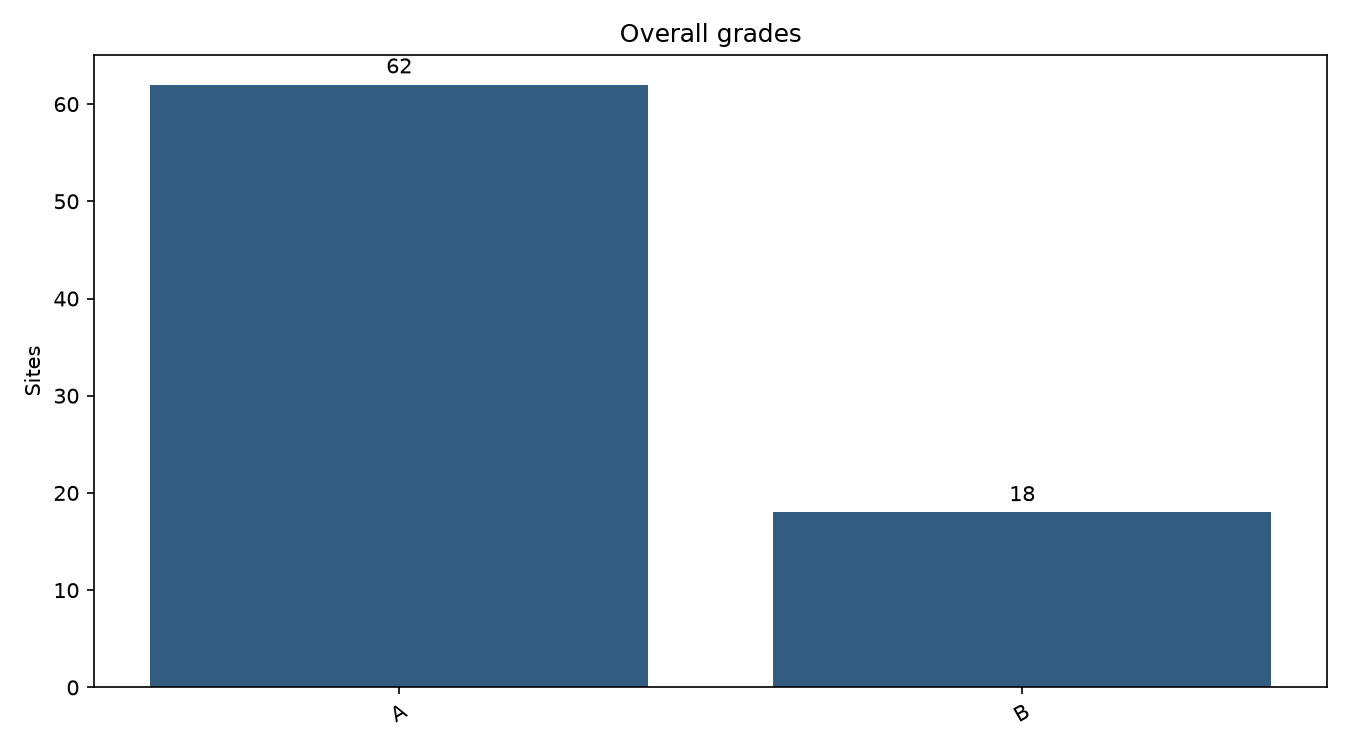
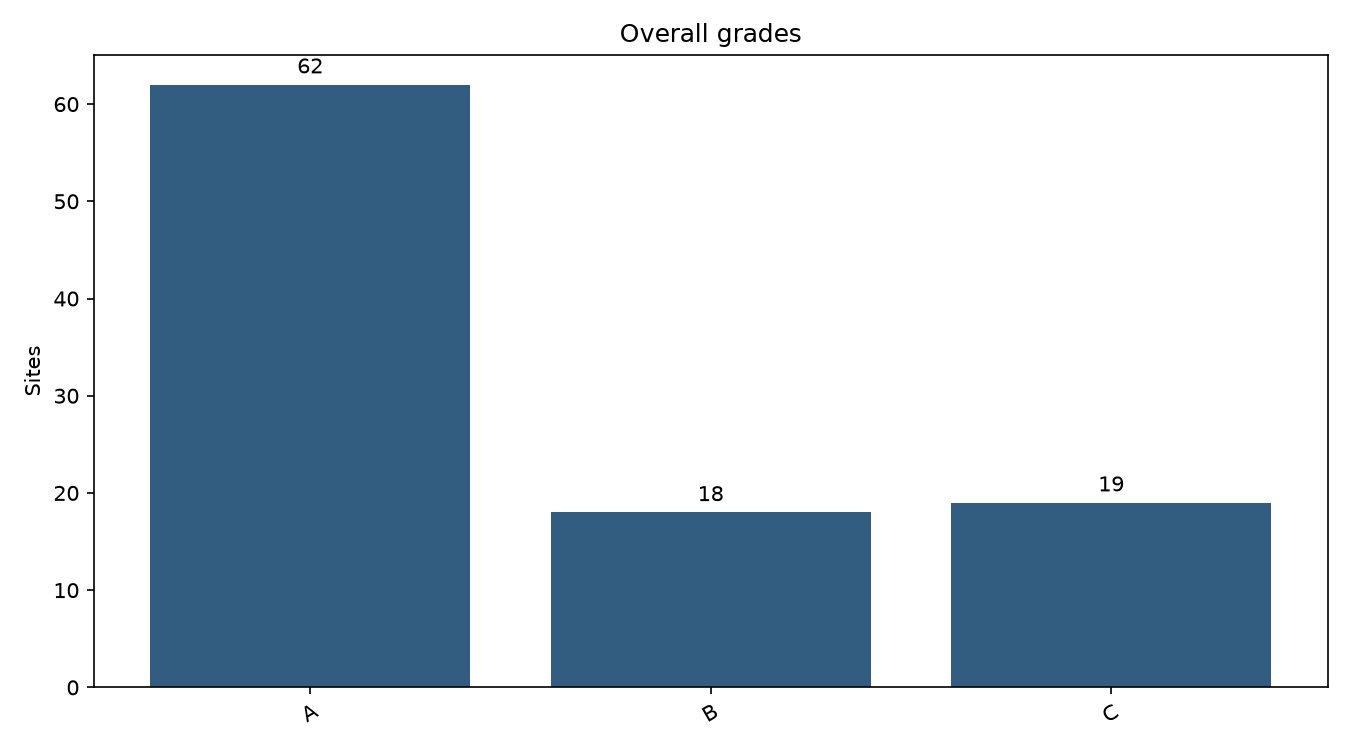
Classify legacy TLS observations in research results

diff --git a/research/analyze.py b/research/analyze.py
@@ -11,6 +11,7 @@ import matplotlib.pyplot as plt
 
 
 ROOT = Path(__file__).resolve().parent.parent
+TLS_LEGACY = "no PQ (TLS 1.2 only)"
 
 
 def chart(labels, values, title, ylabel, destination, maximum=None):
@@ -32,7 +33,7 @@ def analyze(input_path, docs_path, findings_path):
     with input_path.open(newline="", encoding="utf-8") as source:
         rows = list(csv.DictReader(source))
     docs_path.mkdir(parents=True, exist_ok=True)
-    pq_rows = [row for row in rows if row.get("group") in ("X25519MLKEM768", "X25519", "X25519Kyber768Draft00") and row.get("hello_retry_request") != "True"]
+    pq_rows = [row for row in rows if row.get("group") in ("X25519MLKEM768", "X25519", "X25519Kyber768Draft00", TLS_LEGACY) and row.get("hello_retry_request") != "True"]
     categories = {row["category"]: [] for row in rows}
     for row in pq_rows:
         categories[row["category"]].append(row)
@@ -42,7 +43,7 @@ def analyze(input_path, docs_path, findings_path):
     percentages += [100 * sum(row["group"] == "X25519MLKEM768" for row in categories[label]) / len(categories[label]) if categories[label] else 0 for label in labels[1:]]
     if pq_rows:
         measured = [(label, value) for label, value in zip(labels, percentages) if label == "Overall" or categories[label]]
-        chart([item[0] for item in measured], [item[1] for item in measured], "Hybrid PQ key exchange among measured sites", "Sites (%)", docs_path / "pqc_adoption.png", 100)
+        chart([item[0] for item in measured], [item[1] for item in measured], "Hybrid PQ key exchange among classified sites", "Sites (%)", docs_path / "pqc_adoption.png", 100)
     else:
         figure, axis = plt.subplots(figsize=(9, 5))
         axis.text(0.5, 0.5, "No measurable key exchanges", ha="center", va="center")
@@ -56,15 +57,21 @@ def analyze(input_path, docs_path, findings_path):
         chart(sorted(counts), [counts[label] for label in sorted(counts)], title, "Sites", docs_path / filename)
     successful = sum(row.get("status") == "ok" for row in rows)
     failures = len(rows) - successful
-    pq_summary = (f"The hybrid X25519MLKEM768 group was selected by {hybrid} of {len(pq_rows)} sites with a measurable key exchange ({percentages[0]:.1f}%)."
+    pq_summary = (f"The hybrid X25519MLKEM768 group was selected by {hybrid} of {len(pq_rows)} classified sites ({percentages[0]:.1f}%)."
                   if pq_rows else "No sites had a measurable key exchange; an adoption percentage cannot be calculated.")
-    lines = ["# Research findings", "", f"The study contains {len(rows)} sites: {successful} complete results and {failures} incomplete or failed results.",
+    lines = ["# Research findings", "", f"The study contains {len(rows)} sites: {successful} classified and graded results and {failures} incomplete or failed results.",
              pq_summary,
              "", "## By category", ""]
     for label, percentage in zip(labels[1:], percentages[1:]):
         count = len(categories[label])
         selected = sum(row["group"] == "X25519MLKEM768" for row in categories[label])
-        lines.append(f"- {label}: {selected} of {count} measured sites ({percentage:.1f}%)." if count else f"- {label}: no measurable sites.")
+        lines.append(f"- {label}: {selected} of {count} classified sites ({percentage:.1f}%)." if count else f"- {label}: no classified sites.")
+    rates = dict(zip(labels, percentages))
+    if all(categories.get(label) for label in ("government", "universities", "healthcare", "banks", "tech", "shopping")):
+        if max(rates[label] for label in ("government", "universities", "healthcare", "banks")) < min(rates["tech"], rates["shopping"]):
+            lines.extend(["", "Government, universities, healthcare, and banks have lower measured rates than both tech and shopping in this sample. Category counts are small."])
+            if rates["banks"] > rates["Overall"]:
+                lines.append("Banks are above the overall rate despite trailing tech and shopping.")
     lines += ["", "## Other observations", ""]
     for field, label in (("overall_grade", "Grades"), ("tls_version", "TLS versions"), ("certificate_key_type", "Certificate keys")):
         counts = Counter(row[field] for row in rows if row.get(field))
@@ -73,13 +80,18 @@ def analyze(input_path, docs_path, findings_path):
     pq_failures = sum(bool(row.get("pqc_error")) for row in rows)
     tls_failures = sum(bool(row.get("tls_error")) for row in rows)
     retries = sum(row.get("hello_retry_request") == "True" for row in rows)
+    legacy = sum(row.get("group") == TLS_LEGACY for row in rows)
+    lines.append(f"- {legacy} sites were classified as no PQ after a TLS 1.2-or-older connection and an unsuccessful TLS 1.3 probe.")
     lines.append(f"- Incomplete measurements: {pq_failures} PQ probe errors, {tls_failures} certificate scan errors, and {retries} retry requests. These counts can overlap.")
+    incomplete_hosts = [row["host"] for row in rows if row.get("status") != "ok"]
+    if incomplete_hosts:
+        lines.append(f"- Unclassified hosts: {', '.join(incomplete_hosts)}. See the CSV for the underlying connection and certificate errors.")
     timestamps = sorted(row["timestamp"] for row in rows if row.get("timestamp"))
     if timestamps:
         lines.extend(["", f"Observations were collected from {timestamps[0]} to {timestamps[-1]} (UTC)."])
     lines += ["", "[Cloudflare](https://blog.cloudflare.com/post-quantum-visibility/) reported about 15% adoption on connections to origin servers; this study measures public-facing hosts, so the populations and methods differ and the percentages are not directly comparable.",
-              "", "Grades use the project's heuristic: 75% key-exchange score and 25% certificate score, with caps for weak or expired keys. They are not a comprehensive security assessment.",
-              "", "The ranked entries come from [Tranco list V354N](https://tranco-list.eu/list/V354N) (retrieved 2026-11-02); other entries were hand-picked. This is a small, non-random sample, not a representative estimate of all websites. Each host receives a raw PQ probe and a separate certificate handshake, paused between, with at least one second between hosts. The connections may reach different endpoints. A non-selected group may still be supported. The probe offers only TLS 1.3; a failed probe does not establish why negotiation failed. Failed and retry-request probes are excluded from the PQ percentage, not counted as negative results. The raw ServerHello is not authenticated; certificate verification failures are recorded separately.",
+              "", "Grades use the project's heuristic: 75% key-exchange score and 25% certificate score, with caps for weak or expired keys. TLS 1.2 with forward secrecy is graded C. They are not a comprehensive security assessment.",
+              "", "The ranked entries come from [Tranco list V354N](https://tranco-list.eu/list/V354N) (retrieved 2026-11-02); other entries were hand-picked. This is a small, non-random sample, not a representative estimate of all websites. Each host receives a raw PQ probe and a separate certificate handshake, paused between, with at least one second between hosts. The connections may reach different endpoints. A non-selected group may still be supported. The probe offers only TLS 1.3; a failed probe does not establish why negotiation failed. For this study, a protocol-alert or invalid-record probe failure combined with TLS 1.2 or older is classified as no PQ on the observed connection. This is an assumption, not proof that the host supports only TLS 1.2 or does not support PQ under other conditions. Network errors and retry requests are excluded. The raw ServerHello is not authenticated; certificate verification failures are recorded separately.",
               "", "Reproduce the study with `python research/scan_sites.py --timeout 5`, then `python research/analyze.py`. The scan overwrites `research/results.csv` and saves each row as it finishes.", ""]
     findings_path.write_text("\n".join(lines), encoding="utf-8")
 

diff --git a/research/scan_sites.py b/research/scan_sites.py
@@ -10,14 +10,28 @@ from pathlib import Path
 ROOT = Path(__file__).resolve().parent.parent
 sys.path.insert(0, str(ROOT))
 
-from quantum_audit.grading import grade
+from quantum_audit.grading import TLS_LEGACY, grade
 from quantum_audit.pqc import probe
 from quantum_audit.scanner import scan
 
-FIELDS = ["timestamp", "host", "category", "source", "status", "tls_error", "pqc_error", "grading_error",
+FIELDS = ["timestamp", "host", "category", "source", "status", "tls_error", "pqc_error", "pqc_diagnostic", "grading_error",
           "tls_version", "cipher_suite", "certificate_key_type", "certificate_key_size", "signature_algorithm",
           "issuer", "expiry", "group", "hello_retry_request", "draft_requested", "draft_accepted",
           "key_exchange_score", "certificate_score", "overall_score", "overall_grade", "next_step"]
+
+
+def classify_legacy(row):
+    if (row.get("tls_version") not in ("TLSv1.2", "TLSv1.1", "TLSv1")
+            or row.get("pqc_error") != "server returned an alert or invalid TLS record"):
+        return row
+    tls = dict(row)
+    tls["certificate_key_size"] = int(tls["certificate_key_size"])
+    result = grade(tls, {"host": row["host"], "group": TLS_LEGACY})
+    row.update(result)
+    row["group"] = TLS_LEGACY
+    row["pqc_diagnostic"] = row.pop("pqc_error")
+    row["status"] = "ok"
+    return row
 
 
 def scan_host(site, timeout=10):
@@ -44,7 +58,23 @@ def scan_host(site, timeout=10):
     elif pqc is not None and pqc["hello_retry_request"]:
         row["grading_error"] = "Key exchange was requested but not negotiated"
     row["status"] = "ok" if row.get("overall_grade") else "incomplete"
+    if tls is not None and pqc is None:
+        try:
+            classify_legacy(row)
+        except (ValueError, KeyError, TypeError) as error:
+            row["grading_error"] = str(error)
     return row
+
+
+def reclassify(path):
+    with path.open(newline="", encoding="utf-8") as source:
+        rows = list(csv.DictReader(source))
+    for row in rows:
+        classify_legacy(row)
+    with path.open("w", newline="", encoding="utf-8") as output:
+        writer = csv.DictWriter(output, fieldnames=FIELDS, extrasaction="ignore", lineterminator="\n")
+        writer.writeheader()
+        writer.writerows(rows)
 
 
 def run(sites_path, output_path, timeout=10):
@@ -74,10 +104,14 @@ def main():
     parser.add_argument("--sites", type=Path, default=ROOT / "research/sites.txt")
     parser.add_argument("--output", type=Path, default=ROOT / "research/results.csv")
     parser.add_argument("--timeout", type=float, default=10)
+    parser.add_argument("--reclassify", action="store_true", help="update saved results without network connections")
     args = parser.parse_args()
     if args.timeout <= 0:
         parser.error("timeout must be positive")
-    run(args.sites, args.output, args.timeout)
+    if args.reclassify:
+        reclassify(args.output)
+    else:
+        run(args.sites, args.output, args.timeout)
 
 
 if __name__ == "__main__":

diff --git a/tests/test_research_scan.py b/tests/test_research_scan.py
@@ -1,6 +1,7 @@
 import csv
 
 from research import scan_sites
+from quantum_audit.grading import TLS_LEGACY, grade
 
 
 def test_scan_keeps_partial_results_and_pauses(monkeypatch):
@@ -22,6 +23,50 @@ def test_scan_keeps_partial_results_and_pauses(monkeypatch):
     assert result["status"] == "incomplete"
     assert result["pqc_error"] == "probe unavailable"
     assert result["tls_version"] == "TLSv1.3"
+
+
+def test_tls12_protocol_alert_is_classified_and_graded(monkeypatch):
+    def probe(host, timeout):
+        raise ValueError("server returned an alert or invalid TLS record")
+
+    def scan(host, timeout):
+        return {"host": host, "tls_version": "TLSv1.2", "cipher_suite": "ECDHE-RSA-AES256-GCM-SHA384",
+                "certificate_key_type": "RSA", "certificate_key_size": 2048}
+
+    monkeypatch.setattr(scan_sites, "probe", probe)
+    monkeypatch.setattr(scan_sites, "scan", scan)
+    monkeypatch.setattr(scan_sites.time, "sleep", lambda duration: None)
+    result = scan_sites.scan_host({"host": "example.com", "category": "tech", "source": "test"})
+    assert result["status"] == "ok"
+    assert result["group"] == TLS_LEGACY
+    assert result["overall_grade"] == "C"
+    assert "alert" in result["pqc_diagnostic"]
+    assert not result.get("pqc_error")
+
+
+def test_tls12_network_failure_is_not_classified():
+    row = {"host": "example.com", "tls_version": "TLSv1.2", "pqc_error": "[Errno 54] Connection reset by peer"}
+    assert "group" not in scan_sites.classify_legacy(row)
+
+
+def test_tls12_without_forward_secrecy_grades_d():
+    tls = {"host": "example.com", "tls_version": "TLSv1.2", "cipher_suite": "AES256-GCM-SHA384",
+           "certificate_key_type": "RSA", "certificate_key_size": 2048}
+    assert grade(tls, {"host": "example.com", "group": TLS_LEGACY})["overall_grade"] == "D"
+
+
+def test_reclassify_saved_rows_preserves_timestamp_and_is_repeatable(tmp_path):
+    output = tmp_path / "results.csv"
+    output.write_text("timestamp,host,tls_version,cipher_suite,certificate_key_type,certificate_key_size,pqc_error\n"
+                      "2026-01-01T00:00:00+00:00,example.com,TLSv1.2,ECDHE-RSA-AES256-GCM-SHA384,RSA,2048,server returned an alert or invalid TLS record\n", encoding="utf-8")
+    scan_sites.reclassify(output)
+    first = output.read_text(encoding="utf-8")
+    scan_sites.reclassify(output)
+    assert output.read_text(encoding="utf-8") == first
+    with output.open(newline="", encoding="utf-8") as data:
+        row = next(csv.DictReader(data))
+    assert row["timestamp"] == "2026-01-01T00:00:00+00:00"
+    assert row["overall_grade"] == "C"
 
 
 def test_batch_delays_between_hosts_and_writes_rows(monkeypatch, tmp_path):

diff --git a/quantum_audit/grading.py b/quantum_audit/grading.py
@@ -4,6 +4,7 @@ from datetime import datetime, timezone
 
 DEADLINE_NOTE = ("NIST IR 8547: RSA/ECC deprecated after 2030 and disallowed after 2035 "
                  "for applicable NIST-governed uses.")
+TLS_LEGACY = "no PQ (TLS 1.2 only)"
 
 
 def grade(tls, pqc):
@@ -11,6 +12,12 @@ def grade(tls, pqc):
         raise ValueError("TLS and key-exchange observations must have the same host")
     group = pqc.get("group")
     key_score = {"X25519MLKEM768": 100, "X25519": 70, "X25519Kyber768Draft00": 30}.get(group)
+    version = tls.get("tls_version")
+    cipher = tls.get("cipher_suite") or ""
+    if group == TLS_LEGACY:
+        if version not in ("TLSv1.2", "TLSv1.1", "TLSv1") or not cipher:
+            raise ValueError("legacy classification requires a TLS version and cipher")
+        key_score = 50 if version == "TLSv1.2" and cipher.startswith(("ECDHE-", "DHE-")) else 30
     key_type = tls.get("certificate_key_type")
     size = tls.get("certificate_key_size")
     if key_score is None or not isinstance(size, int) or key_type not in ("RSA", "EC", "DSA", "Ed25519", "Ed448"):
@@ -26,13 +33,15 @@ def grade(tls, pqc):
         if expired:
             cert_score = 0
     overall = round(key_score * 0.75 + cert_score * 0.25)
-    if expired:
+    if expired or (group == TLS_LEGACY and version in ("TLSv1", "TLSv1.1")):
         overall = 0
     elif cert_score < 70:
         overall = min(overall, 49)
-    letter = "F" if expired else "A" if overall >= 90 else "B" if overall >= 70 else "C" if overall >= 50 else "D" if overall >= 30 else "F"
+    letter = "A" if overall >= 90 else "B" if overall >= 70 else "C" if overall >= 50 else "D" if overall >= 30 else "F"
     if expired:
         recommendation = "Renew the expired certificate."
+    elif group == TLS_LEGACY:
+        recommendation = "Enable TLS 1.3 with the X25519MLKEM768 hybrid key exchange."
     elif cert_score < 70:
         recommendation = "Replace the weak certificate key with a modern key."
     elif key_score == 100:

diff --git a/tests/test_research_analysis.py b/tests/test_research_analysis.py
@@ -10,6 +10,7 @@ def test_analysis_excludes_failures_and_retry_requests(tmp_path):
         {"host": "two.example", "category": "tech", "status": "ok", "group": "X25519", "hello_retry_request": "False", "tls_version": "TLSv1.3", "certificate_key_type": "RSA", "overall_grade": "B"},
         {"host": "three.example", "category": "tech", "status": "failed", "group": "", "hello_retry_request": "", "tls_version": "", "certificate_key_type": "", "overall_grade": ""},
         {"host": "four.example", "category": "tech", "status": "failed", "group": "X25519Kyber768Draft00", "hello_retry_request": "True", "tls_version": "", "certificate_key_type": "", "overall_grade": ""},
+        {"host": "five.example", "category": "tech", "status": "ok", "group": "no PQ (TLS 1.2 only)", "hello_retry_request": "", "tls_version": "TLSv1.2", "certificate_key_type": "RSA", "overall_grade": "C"},
     ]
     with source.open("w", newline="", encoding="utf-8") as output:
         writer = csv.DictWriter(output, fieldnames=rows[0])
@@ -19,6 +20,6 @@ def test_analysis_excludes_failures_and_retry_requests(tmp_path):
     findings = tmp_path / "findings.md"
     analyze(source, docs, findings)
     text = findings.read_text(encoding="utf-8")
-    assert "1 of 2 sites with a measurable key exchange (50.0%)" in text
+    assert "1 of 3 classified sites (33.3%)" in text
     assert "2 incomplete or failed" in text
     assert len(list(docs.glob("*.png"))) == 4

diff --git a/research/FINDINGS.md b/research/FINDINGS.md
@@ -1,31 +1,36 @@
 # Research findings
 
-The study contains 104 sites: 80 complete results and 24 incomplete or failed results.
-The hybrid X25519MLKEM768 group was selected by 62 of 80 sites with a measurable key exchange (77.5%).
+The study contains 104 sites: 99 classified and graded results and 5 incomplete or failed results.
+The hybrid X25519MLKEM768 group was selected by 62 of 99 classified sites (62.6%).
 
 ## By category
 
-- banks: 9 of 11 measured sites (81.8%).
-- government: 4 of 9 measured sites (44.4%).
-- healthcare: 6 of 8 measured sites (75.0%).
-- news: 10 of 10 measured sites (100.0%).
-- shopping: 11 of 12 measured sites (91.7%).
-- tech: 16 of 19 measured sites (84.2%).
-- universities: 6 of 11 measured sites (54.5%).
+- banks: 9 of 14 classified sites (64.3%).
+- government: 4 of 13 classified sites (30.8%).
+- healthcare: 6 of 12 classified sites (50.0%).
+- news: 10 of 13 classified sites (76.9%).
+- shopping: 11 of 13 classified sites (84.6%).
+- tech: 16 of 19 classified sites (84.2%).
+- universities: 6 of 15 classified sites (40.0%).
+
+Government, universities, healthcare, and banks have lower measured rates than both tech and shopping in this sample. Category counts are small.
+Banks are above the overall rate despite trailing tech and shopping.
 
 ## Other observations
 
-- Grades (80 measured): A: 62, B: 18.
+- Grades (99 measured): A: 62, B: 18, C: 19.
 - TLS versions (100 measured): TLSv1.2: 19, TLSv1.3: 81.
 - Certificate keys (100 measured): EC: 35, RSA: 65.
-- Incomplete measurements: 24 PQ probe errors, 4 certificate scan errors, and 0 retry requests. These counts can overlap.
+- 19 sites were classified as no PQ after a TLS 1.2-or-older connection and an unsuccessful TLS 1.3 probe.
+- Incomplete measurements: 5 PQ probe errors, 4 certificate scan errors, and 0 retry requests. These counts can overlap.
+- Unclassified hosts: bing.com, fifththirdbank.com, ssa.gov, atlanta.gov, humana.com. See the CSV for the underlying connection and certificate errors.
 
 Observations were collected from 2026-11-02T22:30:19.781914+00:00 to 2026-11-02T22:33:06.694708+00:00 (UTC).
 
 [Cloudflare](https://blog.cloudflare.com/post-quantum-visibility/) reported about 15% adoption on connections to origin servers; this study measures public-facing hosts, so the populations and methods differ and the percentages are not directly comparable.
 
-Grades use the project's heuristic: 75% key-exchange score and 25% certificate score, with caps for weak or expired keys. They are not a comprehensive security assessment.
+Grades use the project's heuristic: 75% key-exchange score and 25% certificate score, with caps for weak or expired keys. TLS 1.2 with forward secrecy is graded C. They are not a comprehensive security assessment.
 
-The ranked entries come from [Tranco list V354N](https://tranco-list.eu/list/V354N) (retrieved 2026-11-02); other entries were hand-picked. This is a small, non-random sample, not a representative estimate of all websites. Each host receives a raw PQ probe and a separate certificate handshake, paused between, with at least one second between hosts. The connections may reach different endpoints. A non-selected group may still be supported. The probe offers only TLS 1.3; a failed probe does not establish why negotiation failed. Failed and retry-request probes are excluded from the PQ percentage, not counted as negative results. The raw ServerHello is not authenticated; certificate verification failures are recorded separately.
+The ranked entries come from [Tranco list V354N](https://tranco-list.eu/list/V354N) (retrieved 2026-11-02); other entries were hand-picked. This is a small, non-random sample, not a representative estimate of all websites. Each host receives a raw PQ probe and a separate certificate handshake, paused between, with at least one second between hosts. The connections may reach different endpoints. A non-selected group may still be supported. The probe offers only TLS 1.3; a failed probe does not establish why negotiation failed. For this study, a protocol-alert or invalid-record probe failure combined with TLS 1.2 or older is classified as no PQ on the observed connection. This is an assumption, not proof that the host supports only TLS 1.2 or does not support PQ under other conditions. Network errors and retry requests are excluded. The raw ServerHello is not authenticated; certificate verification failures are recorded separately.
 
 Reproduce the study with `python research/scan_sites.py --timeout 5`, then `python research/analyze.py`. The scan overwrites `research/results.csv` and saves each row as it finishes.
